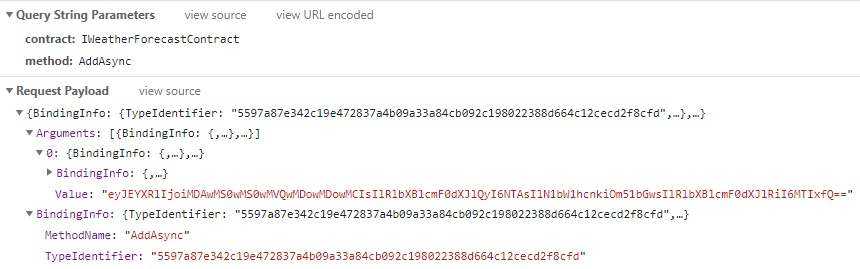
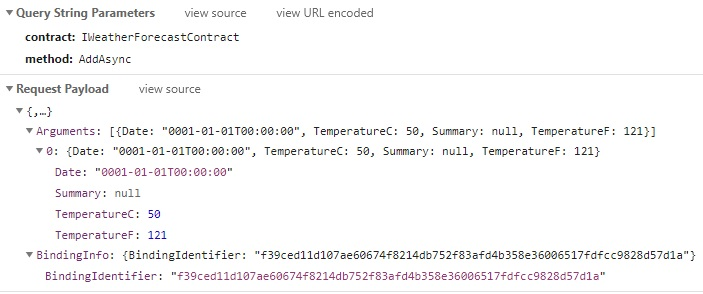
Update debugging docs

diff --git a/docs/blazor-communication-foundation/readme.md b/docs/blazor-communication-foundation/readme.md
@@ -233,9 +233,9 @@ By default, Blazor Communication Foundation uses MessagePack to serialize commun
 To have an insight into the communication, I recommend using JSON serializer for `DEBUG` using `#if` directive. See [Custom serializer](#custom-serializer).
 
 ### Request
-Request contains binding information for contract type and method and value of the parameters. Currently, parameter values are not readable, but there will be implemented a human-readable value soon.
+Request contains binding information with binding identifier and value of the arguments.
 ![request](images/json_request.jpg)
 
 ### Response
-Response contains only serialized values
+Response contains only serialized values by the selected serializer.
 ![response](images/json_response.jpg)
